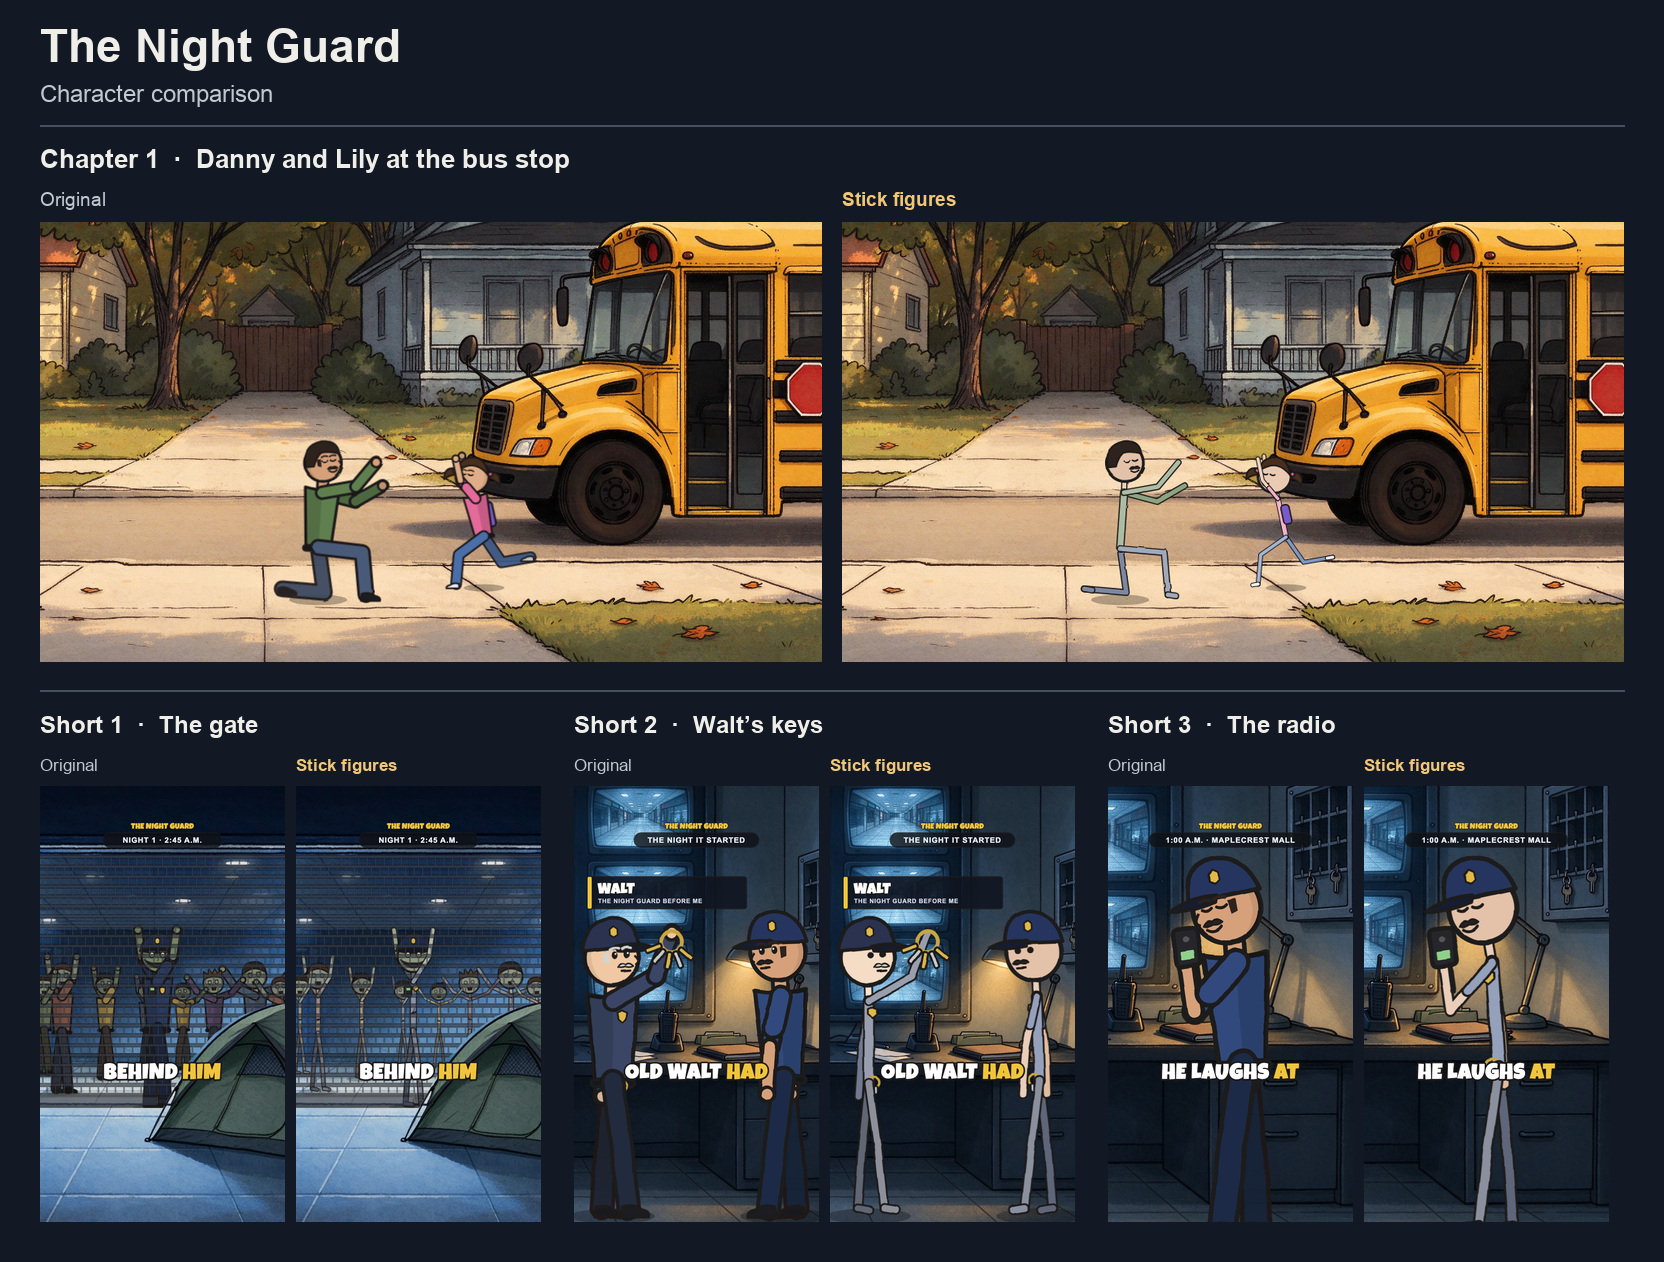
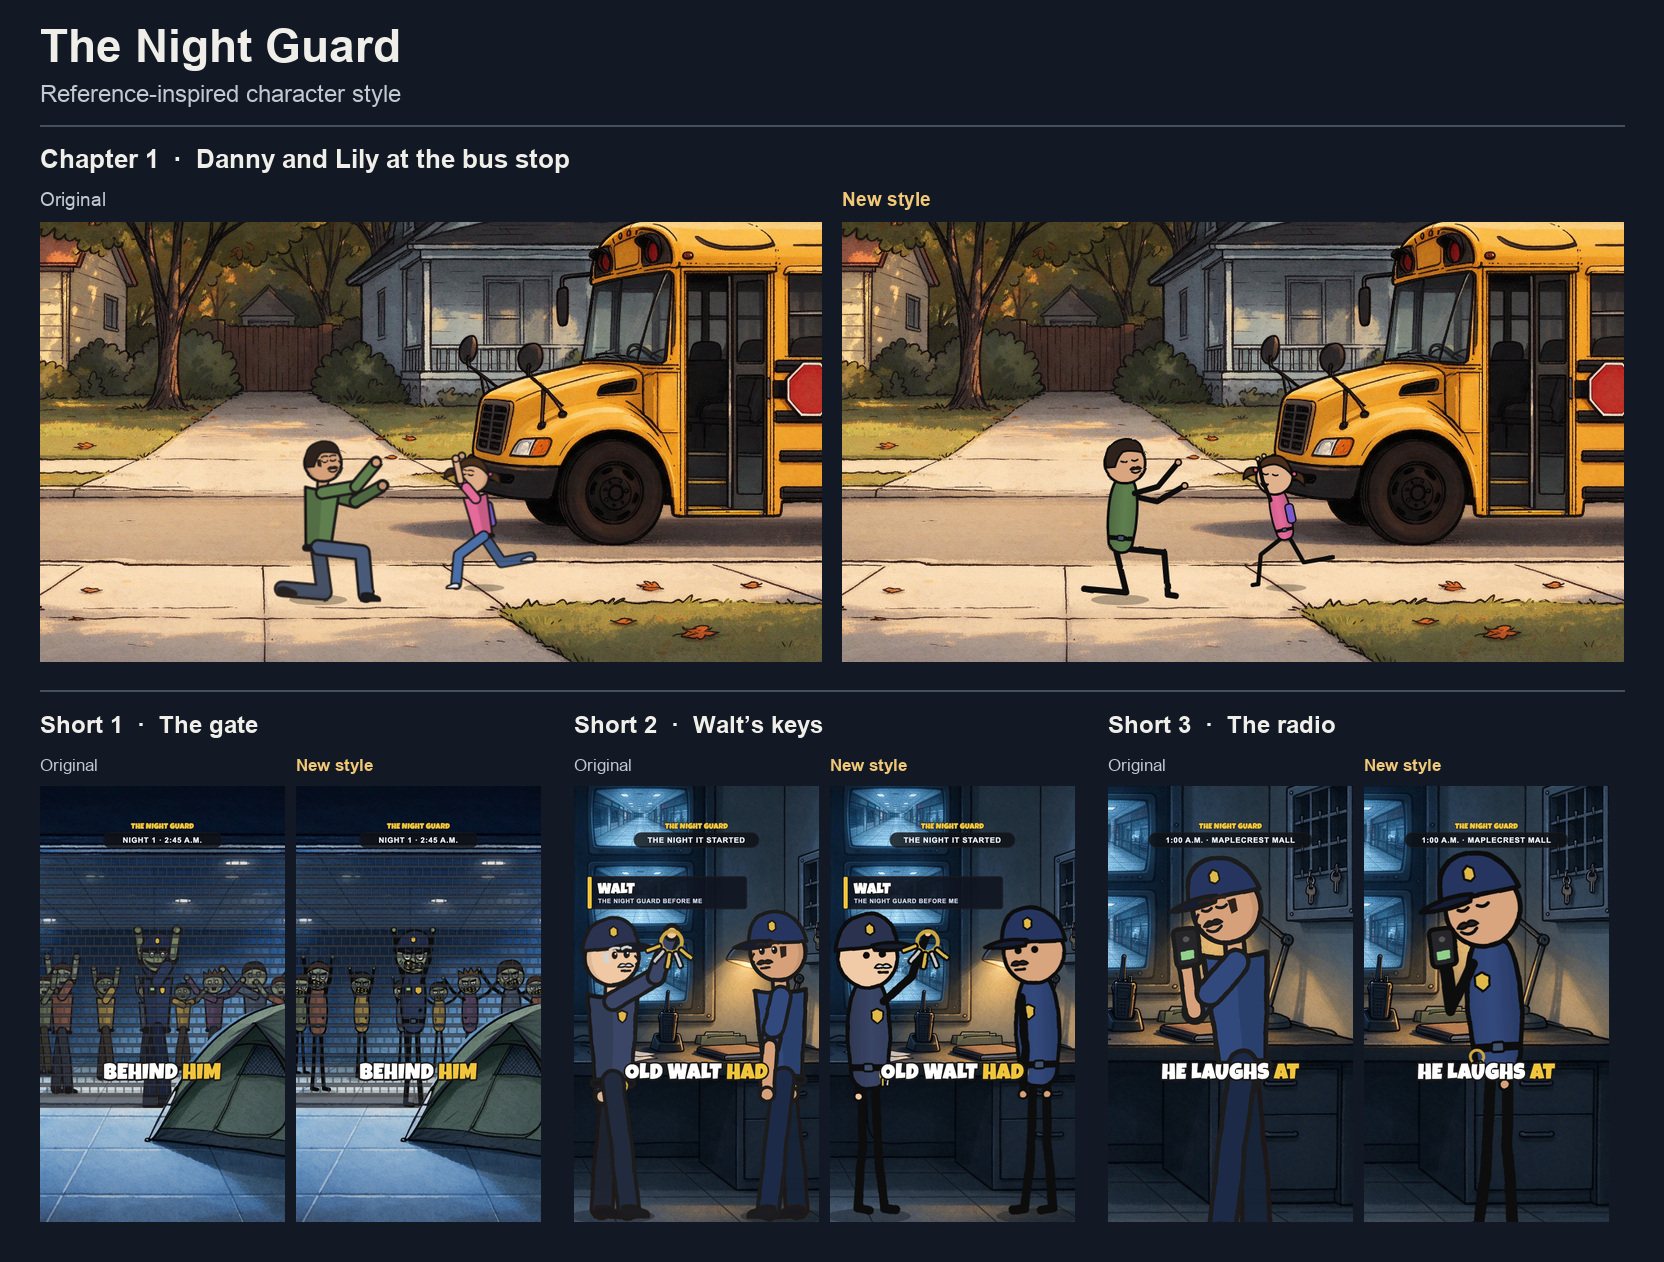
Match Night Guard figures to supplied cartoon reference

diff --git a/src/mall/Stick.tsx b/src/mall/Stick.tsx
@@ -74,8 +74,8 @@ export type StickProps = {
 };
 
 type V2 = [number, number];
-const INK = '#1d1a1a';
-const LW = 4.2; // outline width
+const INK = '#0b0c0c';
+const LW = 3.6; // outline width
 const R = 28; // head radius
 const NECK = 8;
 const TORSO = 94;
@@ -294,12 +294,13 @@ export const Head: React.FC<{
   ghost: boolean;
   ink: string;
 }> = ({c, tilt, look, eyes, mouth, gaze, back, front, ghost, ink}) => {
-  const skin = ghost ? '#20232b' : shade(look.skin ?? SKIN.light, look.torn ? 1.2 : 1.35);
+  const skin = ghost ? '#20232b' : shade(look.skin ?? SKIN.light, look.torn ? 1.08 : 1.04);
   const hairC = ghost ? '#20232b' : look.hairColor ?? '#2b211b';
   const hatC = ghost ? '#20232b' : look.hatColor ?? UNIFORM.hat;
+  const infected = eyes === 'zombie';
   const g = gaze * 2.2 + (eyes === 'side' ? -2 : 0);
   // three-quarter view: the face sits toward +x; front view: centred
-  const ex = front ? [-9.5, 9.5] : [R * 0.12, R * 0.56];
+  const ex = front ? [-10, 10] : [-1, 14];
   const ey = -R * 0.1;
   const browY = ey - 7;
   const mx = front ? 0 : R * 0.5;
@@ -311,7 +312,7 @@ export const Head: React.FC<{
       case 'wide':
         return (
           <g key={k}>
-            <ellipse cx={x} cy={ey} rx={4.6} ry={5.6} fill="#fff" stroke={ink} strokeWidth={2.2} />
+            <ellipse cx={x} cy={ey} rx={6} ry={7} fill="#fff" stroke={ink} strokeWidth={2.2} />
             <circle cx={x + g + 0.6} cy={ey + 0.4} r={2.2} fill={ink} />
           </g>
         );
@@ -320,8 +321,12 @@ export const Head: React.FC<{
       case 'zombie':
         return (
           <g key={k}>
-            <ellipse cx={x} cy={ey} rx={4.2} ry={4.6} fill="#e7ead2" stroke={ink} strokeWidth={1.8} />
-            <circle cx={x + g * 0.5} cy={ey + 0.5} r={1.2} fill={ink} />
+            <ellipse cx={x} cy={ey + 2} rx={8} ry={9} fill="#465335" opacity={0.6} />
+            <path d={`M ${x - 7} ${ey - 3} Q ${x} ${ey + 2} ${x + 7} ${ey - 3} Q ${x + 7} ${ey + 11} ${x} ${ey + 9} Q ${x - 7} ${ey + 8} ${x - 7} ${ey - 3} Z`}
+              fill="#fff9e9" stroke={ink} strokeWidth={1.8} />
+            <circle cx={x + g * 0.5} cy={ey + 4} r={1.5} fill={ink} />
+            <path d={`M ${x - 7} ${ey - (k === 0 ? 5 : 1)} L ${x + 7} ${ey - (k === 0 ? 1 : 5)}`}
+              stroke={ink} strokeWidth={3.8} strokeLinecap="round" />
           </g>
         );
       default:
@@ -354,14 +359,21 @@ export const Head: React.FC<{
           </g>
         );
       case 'zombie':
-        return <path d={`M ${mx - 6.5} ${my - 1} L ${mx + 6.5} ${my - 1} L ${mx + 5} ${my + 6} L ${mx - 5} ${my + 6} Z`} fill="#3a2424" stroke={ink} strokeWidth={1.8} strokeLinejoin="round" />;
+        return (
+          <g transform={`translate(${front ? 0 : 8},12)`} stroke={ink} strokeLinejoin="round">
+            <path d="M -14 -2 Q -9 -9 -1 -3 Q 4 1 12 -2 Q 18 -1 15 8 Q 6 5 0 9 Q -7 12 -15 7 Z" fill="#12110d" strokeWidth={2.2} />
+            <path d="M -11 -3 L -8 4 L -5 -3 Z M -2 -1 L 1 5 L 4 0 Z M 8 -1 L 11 4 L 13 -1 Z M -12 7 L -9 2 L -6 9 Z M -3 8 L 0 3 L 3 7 Z M 7 6 L 10 2 L 12 7 Z"
+              fill="#e8d569" strokeWidth={0.7} />
+            <path d="M -8 14 Q 0 10 7 12" fill="none" strokeWidth={1.6} strokeLinecap="round" />
+          </g>
+        );
       default:
         return null;
     }
   })();
 
   return (
-    <g transform={`translate(${c[0]},${c[1]}) rotate(${tilt})`}>
+    <g transform={`translate(${c[0]},${c[1]}) rotate(${tilt}) scale(1.1)`}>
       {/* hair that hangs behind the head */}
       {look.hair === 'ponytail' && <path d={`M ${-R * 0.75} ${-R * 0.4} q -22 6 -18 34 q 8 -10 20 -15 Z`} fill={hairC} stroke={ink} strokeWidth={3} strokeLinejoin="round" />}
       {look.hair === 'bun' && <circle cx={-R * 0.6} cy={-R * 0.8} r={10} fill={hairC} stroke={ink} strokeWidth={3} />}
@@ -429,7 +441,7 @@ export const Head: React.FC<{
           {eye(ex[1], 1)}
           {brow(ex[0], 0)}
           {brow(ex[1], 1)}
-          {look.beard && (
+          {look.beard && !infected && (
             <path
               d={front ? `M ${-R * 0.82} ${R * 0.22} Q 0 ${R * 1.22} ${R * 0.82} ${R * 0.22} Q 0 ${R * 0.7} ${-R * 0.82} ${R * 0.22} Z` : `M ${-R * 0.12} ${R * 0.5} Q ${R * 0.4} ${R * 1.12} ${R * 0.92} ${R * 0.32} Q ${R * 0.62} ${R * 0.66} ${R * 0.44} ${R * 0.6} Q ${R * 0.2} ${R * 0.66} ${-R * 0.12} ${R * 0.5} Z`}
               fill={hairC}
@@ -450,6 +462,12 @@ export const Head: React.FC<{
           )}
           {look.goatee && (
             <path d={`M ${mx - 5.5} ${my + 3.5} Q ${mx} ${my + 13} ${mx + 5.5} ${my + 3.5} Q ${mx} ${my + 7} ${mx - 5.5} ${my + 3.5} Z`} fill={hairC} stroke={ink} strokeWidth={1.5} strokeLinejoin="round" />
+          )}
+          {infected && (
+            <g fill="none" stroke={ink} strokeWidth={1.5} strokeLinecap="round">
+              <path d="M -2 -10 l 1 4 M 2 -10 l -1 4 M 2 2 l 2 7 l -4 1" />
+              <path d="M -20 7 l -2 3 M -17 9 l -2 4 M 20 8 l 2 3 M 18 10 l 2 4" />
+            </g>
           )}
           {mouthEl}
           {look.glasses && (
@@ -503,25 +521,20 @@ export const Stick: React.FC<StickProps> = ({
   const {lean, hip, neck, headC, shoulder} = k;
   const bulk = look.bulk ?? 1;
   const ink = ghost ? '#1a1c22' : INK;
-  // Keep the dark outline on bright plates and a lighter stroke inside it on night plates.
-  const stickColor = (color: string, far = false) => ghost ? '#20232b' : shade(color, far ? 1.28 : 1.48);
   const shirt = look.shirt ?? '#7a8494';
-  const pants = look.pants ?? '#2b2f38';
   const skin = look.skin ?? SKIN.light;
   const fid = React.useMemo(() => `wob${filterId++}`, []);
 
   const leg = (knee: V2, foot: V2, far: boolean) => (
     <>
-      <Limb pts={[hip, knee, foot]} w={7 * bulk} c={stickColor(pants, far)} ink={ink} />
-      <Limb pts={[foot, add(foot, [12, 2])]} w={6.5 * bulk} c={stickColor(look.shoes ?? pants, far)} ink={ink} />
+      <Limb pts={[add(hip, [far ? -7 : 7, 0]), knee, foot]} w={5.5 * bulk} c={ink} ink={ink} />
+      <Limb pts={[foot, add(foot, [12, 2])]} w={5.5 * bulk} c={ink} ink={ink} />
     </>
   );
   const arm = (elbow: V2, hand: V2, prop: Prop, far: boolean, angle: number) => (
     <>
-      <Limb pts={[shoulder, elbow, hand]} w={6.5 * bulk} c={stickColor(look.sleeves === 'long' ? shirt : skin, far)} ink={ink} />
-      {look.sleeves && look.sleeves !== 'long' && (
-        <Limb pts={[shoulder, lerp(shoulder, elbow, 0.58)]} w={6.5 * bulk} c={stickColor(shirt, far)} ink={ink} />
-      )}
+      <Limb pts={[add(shoulder, [(far ? -16 : 16) * Math.cos(rad(lean)), (far ? -16 : 16) * Math.sin(rad(lean))]), elbow, hand]} w={4.8 * bulk} c={ink} ink={ink} />
+      <circle cx={hand[0]} cy={hand[1]} r={4.6 * bulk} fill={ghost ? ink : skin} stroke={ink} strokeWidth={2.5} />
       {!ghost && <PropShape p={prop} at={hand} ang={angle} beam={beam} />}
     </>
   );
@@ -541,21 +554,36 @@ export const Stick: React.FC<StickProps> = ({
           </linearGradient>
         </defs>
         {leg(k.kneeF, k.footF, true)}
+        {leg(k.kneeN, k.footN, false)}
         {arm(k.elbowF, k.handF, propF, true, pose.armF[1])}
-        <Limb pts={[headC, shoulder]} w={6 * bulk} c={stickColor(skin)} ink={ink} />
-        <Limb pts={[shoulder, hip]} w={9 * bulk} c={stickColor(shirt)} ink={ink} />
+        <Limb pts={[headC, shoulder]} w={5 * bulk} c={ink} ink={ink} />
         <g transform={`translate(${neck}) rotate(${lean})`}>
-          {look.backpack && !ghost && <rect x={-20} y={25} width={18} height={42} rx={7} fill={look.backpack} stroke={ink} strokeWidth={3} />}
-          {look.vest && !ghost && (
+          <defs>
+            <linearGradient id={`${fid}Uniform`} x1="0" y1="0" x2="1" y2="0">
+              <stop offset="0" stopColor={shade(shirt, 0.8)} />
+              <stop offset="0.55" stopColor={shirt} />
+              <stop offset="1" stopColor={shade(shirt, 0.9)} />
+            </linearGradient>
+          </defs>
+          <path d="M -14 -7 Q -24 12 -21 63 L -18 86 Q -15 100 0 100 Q 15 100 18 86 L 21 63 Q 24 12 14 -7 Q 0 -14 -14 -7 Z"
+            transform={`scale(${bulk},1)`} fill={ghost ? ink : `url(#${fid}Uniform)`} stroke={ink} strokeWidth={4} />
+          {!ghost && (
             <g>
-              <path d="M 0 14 V 70" fill="none" stroke={ink} strokeWidth={16} strokeLinecap="round" />
-              <path d="M 0 14 V 70" fill="none" stroke={look.vest} strokeWidth={12} strokeLinecap="round" />
-              <path d="M -6 45 H 6 M -6 57 H 6" fill="none" stroke="#e8eef1" strokeWidth={4} />
+              <path d="M -19 78 H 19" stroke={ink} strokeWidth={7} />
+              <rect x={-5} y={74} width={10} height={8} rx={2} fill="#40516a" stroke={ink} strokeWidth={2} />
             </g>
           )}
-          {look.torn && !ghost && <path d="M -4 66 l 4 -4 l 1 3 l 4 -4" fill="none" stroke={ink} strokeWidth={2.4} />}
+          {look.backpack && !ghost && <rect x={-29} y={25} width={18} height={42} rx={7} fill={look.backpack} stroke={ink} strokeWidth={3} />}
+          {look.vest && !ghost && (
+            <g>
+              <path d="M 0 14 V 68" fill="none" stroke={ink} strokeWidth={34} strokeLinecap="round" />
+              <path d="M 0 14 V 68" fill="none" stroke={look.vest} strokeWidth={29} strokeLinecap="round" />
+              <path d="M -15 45 H 15 M -15 57 H 15" fill="none" stroke="#e8eef1" strokeWidth={4} />
+            </g>
+          )}
+          {look.torn && !ghost && <path d="M 9 61 l 4 -5 l -1 5 l 4 -3" fill="none" stroke={ink} strokeWidth={2.4} />}
           {look.badge && !ghost && !back && (
-            <path d="M 4 15 l 5 2 v 5 l -5 4 l -5 -4 v -5 Z" fill="#e0b94a" stroke={ink} strokeWidth={1.8} />
+            <path d="M 9 16 l 6 3 v 8 l -6 5 l -6 -5 v -8 Z" fill="#e0b94a" stroke={ink} strokeWidth={1.8} />
           )}
           {look.radioOnChest && !ghost && !back && (
             <g transform={`translate(-10,24) rotate(${look.radioFlip ? 180 : 0})`}>
@@ -565,7 +593,7 @@ export const Stick: React.FC<StickProps> = ({
             </g>
           )}
           {look.keysOnBelt && !ghost && (
-            <g transform={`translate(5,${TORSO - 4})`}>
+            <g transform={`translate(17,${TORSO - 12})`}>
               <circle cx={0} cy={3} r={5.5} fill="none" stroke="#c9a640" strokeWidth={2.4} />
               <rect x={-4.5} y={6} width={3.2} height={9} rx={1.2} fill="#d9b64c" stroke={ink} strokeWidth={1.4} />
               <rect x={0.8} y={7} width={3.2} height={8} rx={1.2} fill="#cfcfcf" stroke={ink} strokeWidth={1.4} />
@@ -578,8 +606,7 @@ export const Stick: React.FC<StickProps> = ({
         {sweat && !ghost && (
           <path transform={`translate(${headC[0] - R * 0.7},${headC[1] - R * 0.4})`} d="M 0 -10 Q 6 0 0 5 Q -6 0 0 -10 Z" fill="#9fd3ff" stroke={ink} strokeWidth={2} />
         )}
-        {/* near side last */}
-        {leg(k.kneeN, k.footN, false)}
+        {/* near arm and its held prop overlap the body. */}
         {arm(k.elbowN, k.handN, propN, false, pose.armN[1])}
       </g>
     </g>

diff --git a/src/mall/ShortThumbs.tsx b/src/mall/ShortThumbs.tsx
@@ -32,15 +32,8 @@ const grip: Pose = {...POSES.frontStand, head: 5, armF: [-50.8, -175.1], armN: [
 const {head} = jointsOf(grip, 0, 0, 300);
 const thumbLook = {...LOOKS.marcusZ, skin: '#8ea66c', beard: false};
 const ZombieMarcus: React.FC = () => (
-  <>
-    <Stick x={-head[0]} y={-head[1]} h={300} look={thumbLook} pose={grip}
-      front eyes="zombie" shadow={0} wobble={9} />
-    {/* Keep the broken-tooth snarl legible in the thumbnail crop. */}
-    <g transform={`rotate(${grip.head})`} stroke={INK} strokeLinejoin="round">
-      <path d="M -9 10 Q 0 7 9 10 L 7 22 Q 0 25 -7 22 Z" fill="#2a1212" strokeWidth={2} />
-      <path d="M -7 10 H -3 L -4 14 H -6 Z M 2 10 H 6 L 5 12 H 2 Z" fill="#e9e4c8" strokeWidth={0.9} />
-    </g>
-  </>
+  <Stick x={-head[0]} y={-head[1]} h={300} look={thumbLook} pose={grip}
+    front eyes="zombie" mouth="zombie" shadow={0} wobble={9} />
 );
 
 // The hands wrap in front of the bars, the rest of Marcus stays behind them.
@@ -167,7 +160,7 @@ export const NightGuardShort1Thumb: React.FC = () => {
         <g filter="url(#t1Wob)">
           <g strokeLinecap="round">
             <line x1={-60} y1={2010} x2={hand.x} y2={hand.y} stroke={INK} strokeWidth={60} />
-            <line x1={-60} y1={2010} x2={hand.x} y2={hand.y} stroke={LOOKS.guard.skin} strokeWidth={44} />
+            <line x1={-60} y1={2010} x2={hand.x} y2={hand.y} stroke={INK} strokeWidth={36} />
           </g>
           <g transform={`translate(${hand.x} ${hand.y}) rotate(${(Math.atan2(lens.x - hand.x, -(lens.y - hand.y)) * 180) / Math.PI})`}>
             <rect x={-30} y={-175} width={60} height={150} rx={14} fill="#2a2a2e" stroke={INK} strokeWidth={14} />
